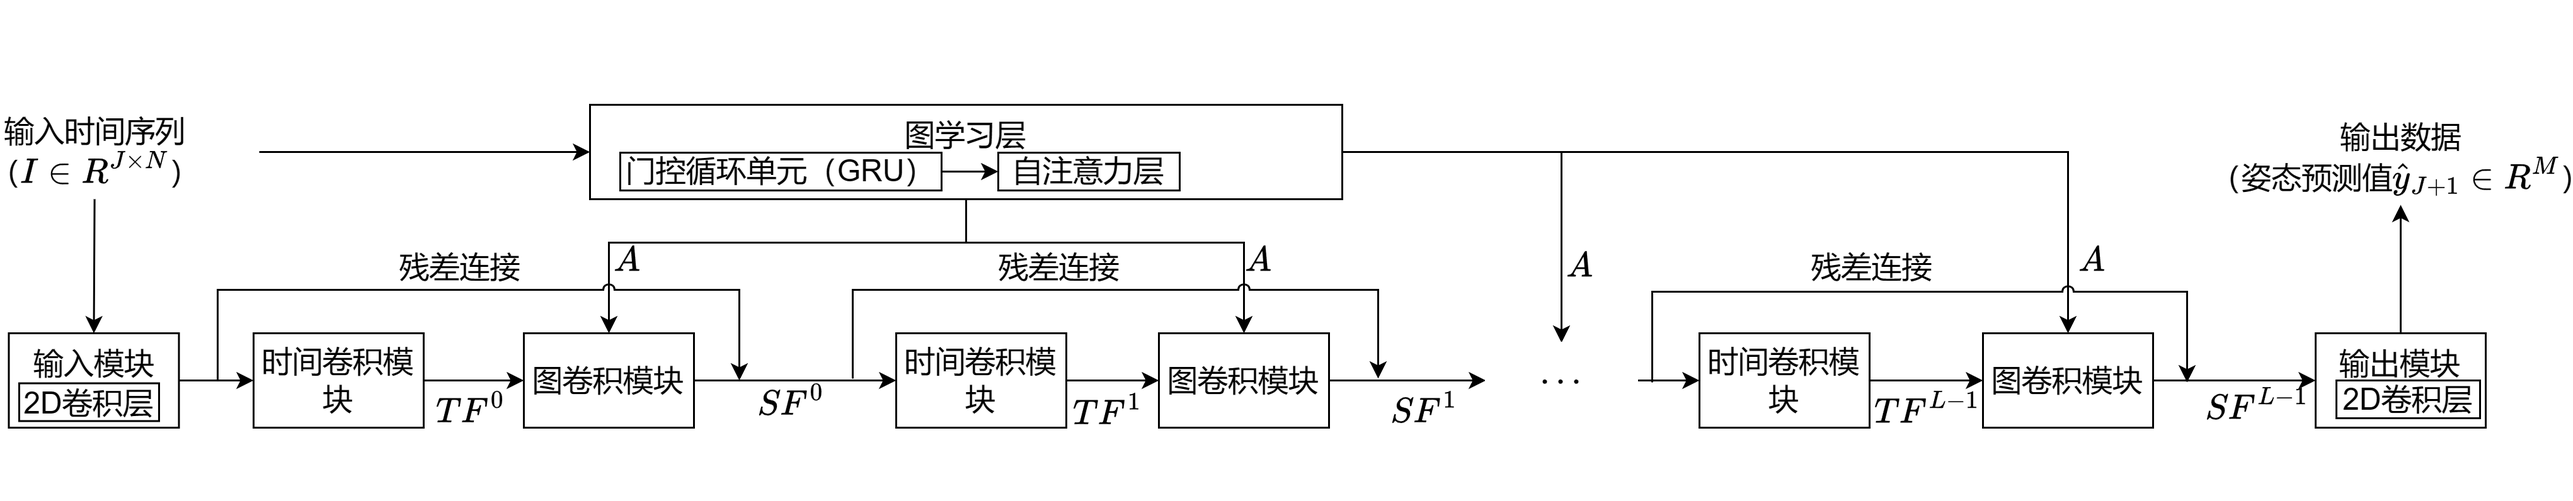
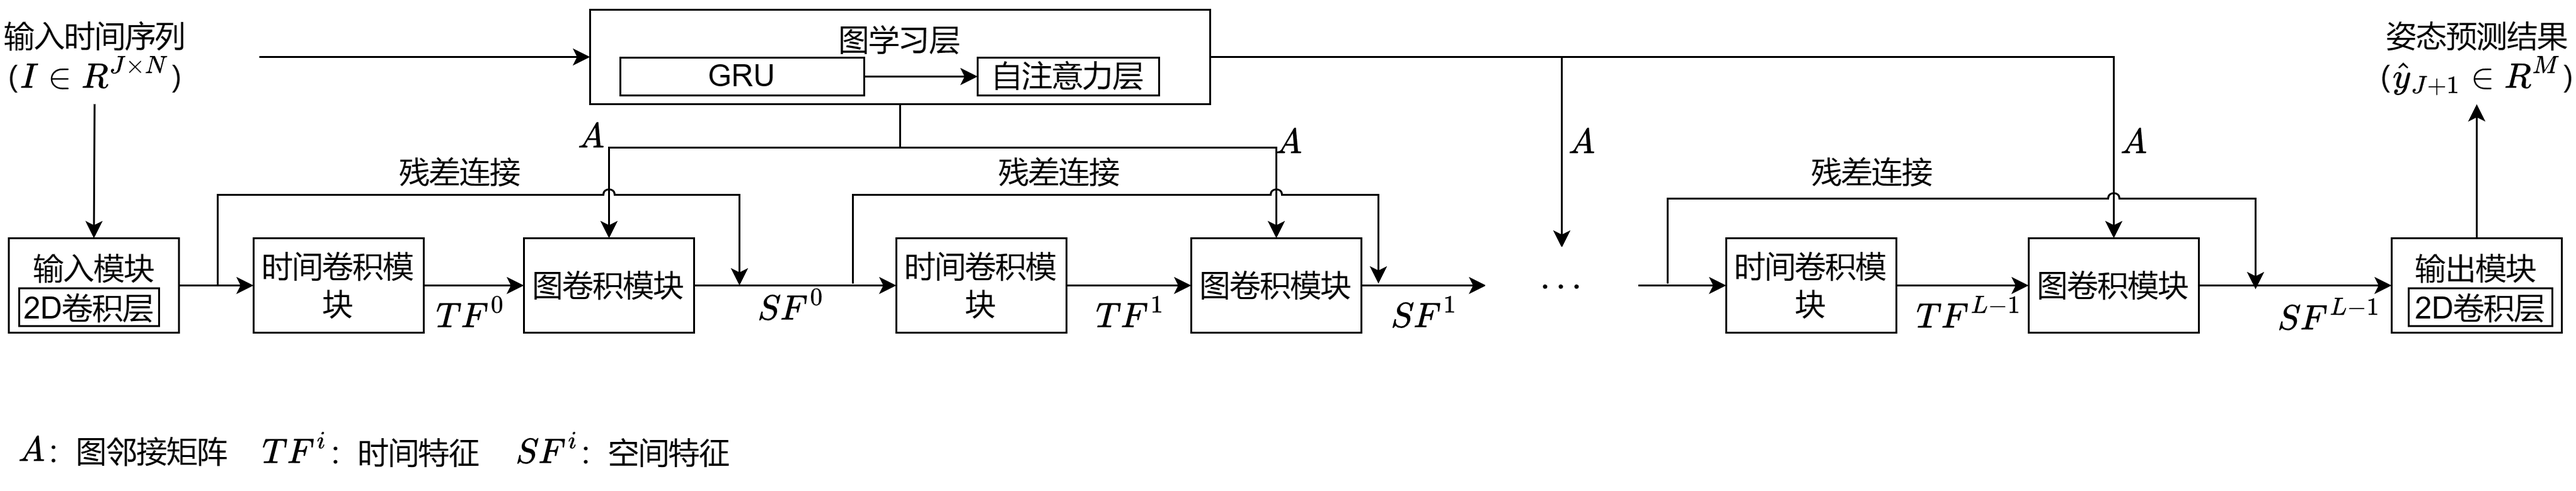
rewrite readme.md

diff --git a/README.md b/README.md
@@ -1,124 +1,128 @@
+
+
 # MiPM
 
 ## 背景
 
-针对桥梁沉井下沉的施工场景，通过传感器收集施工现场的GPS数据以及沉井底部结构应力的数据，然后通过GPS数据计算沉井的姿态指标：下沉量、横/纵向倾斜度、横/纵向顶口偏位、横/纵向底口偏位，共七个指标，利用姿态指标序列以及结构应力序列预测下一时刻的沉井姿态，即多元时序数据预测问题及其应用
+沉井作为基础结构，在桥梁建造中，被广泛应用。在沉井建造过程中，实时准确的下沉姿态预测，有助于降低事故风险，提高工程质量。然而，常用的预测模型，如统计模型、机器学习模型，无法处理时序数据中的非线性时空特性，如结构应力，不适用于沉井下沉姿态的预测。另外，现有的针对沉井下沉姿态预测进行的工作，无法同时对沉井多个姿态指标进行预测。因此，本文提出了多指标预测模型MiPM。对沉井的姿态指标：下沉量、横/纵向倾斜度、横/纵向顶口偏位、横/纵向底口偏位，共七个指标进行预测。在沉井下沉过程中，沉井姿态的变化导致底部结构应力的变化，本文使用结构应力作为辅助数据，提高模型的预测精度。
 
 ## 模型结构
 
-模型介绍：对沉井下沉姿态的预测本质上是多元时序数据预测问题，传统的统计模型以及机器学习模型都不适用于时序数据的预测。本文，基于卷积神经网络以及图神经网络建立深度学习模型，提取时序数据的时空关系，预测沉井的下沉姿态。
+基于卷积神经网络以及图神经网络建立深度学习模型，提取沉井下沉姿态数据以及结构应力之间的时空特征，预测沉井的下沉姿态。该模型主要分为图学习层、时间卷积模块、图卷积模块、输入输出模块。
 
 <center>    <img style="border-radius: 0.3125em;    box-shadow: 0 2px 4px 0 rgba(34,36,38,.12),0 2px 10px 0 rgba(34,36,38,.08);"     src="./pictures/model_architecture.png">    <br>    <div style="color:orange; border-bottom: 1px solid #d9d9d9;    display: inline-block;    color: #999;    padding: 2px;">模型的总体架构图</div> </center>
 
 
 
-
+图卷积神经网络需要图邻接矩阵，本文使用GRU以及自注意力机制动态建立沉井下沉姿态以及结构应力之间的图邻接矩阵，提高模型的预测精度
 
 <center>    <img style="border-radius: 0.3125em;    box-shadow: 0 2px 4px 0 rgba(34,36,38,.12),0 2px 10px 0 rgba(34,36,38,.08);"     src="./pictures/graph_learning.png">    <br>    <div style="color:orange; border-bottom: 1px solid #d9d9d9;    display: inline-block;    color: #999;    padding: 2px;">图学习层架构图</div> </center>
 
-
-
-![tcmodule](./pictures/graph_learning.png)
+沉井下沉过程中，沉井的姿态以及底部结构应力都是随时间变化，上一时刻的值影响下一时刻，本文使用1D扩展卷积层捕获多元时序数据的时间特征，学习沉井下沉姿态以及结构应力的时间关系
 
 <center>    <img style="border-radius: 0.3125em;    box-shadow: 0 2px 4px 0 rgba(34,36,38,.12),0 2px 10px 0 rgba(34,36,38,.08);"     src="./pictures/tcmodule.png">    <br>    <div style="color:orange; border-bottom: 1px solid #d9d9d9;    display: inline-block;    color: #999;    padding: 2px;">时间卷积模块架构图</div> </center>
+
+在沉井下沉过程中，沉井姿态的变化会导致沉井底部结构应力的变化，且沉井底部不同位置都布置了结构应力点位，不同点位之间也是相互影响的。本文使用图神经网络来提取多元时序数据之间的空间特征。
 
 <center>    <img style="border-radius: 0.3125em;    box-shadow: 0 2px 4px 0 rgba(34,36,38,.12),0 2px 10px 0 rgba(34,36,38,.08);"     src="./pictures/mix-pop.png">    <br>    <div style="color:orange; border-bottom: 1px solid #d9d9d9;    display: inline-block;    color: #999;    padding: 2px;">图卷积模块架构图</div> </center>
 
 # 实验结果
 
+本文各模型对沉井的七个姿态指标进行预测，并使用相关系数R2、均方根误差RMSE、平均绝对百分比误差MAPE，作为评价指标。各模型的预测结果如下表。
+
 <center>    <img style="border-radius: 0.3125em;    box-shadow: 0 2px 4px 0 rgba(34,36,38,.12),0 2px 10px 0 rgba(34,36,38,.08);"     src="./pictures/study_results.jpg">    <br>    <div style="color:orange; border-bottom: 1px solid #d9d9d9;    display: inline-block;    color: #999;    padding: 2px;">各模型的预测结果</div> </center>
 
 # 基线模型
 
-以下基线模型，本文根据原网络结构，基于本文的数据集，进行调参。其余的基线模型由本文实现
+针对以下基线模型，本文根据原网络结构记忆本文的数据集，进行调参，并给出参数设置。其余未出现在下面模型中的基线模型由本文实现
 
 ## DARNN
 
-@article{qin2017dual,
-  title={A dual-stage attention-based recurrent neural network for time series prediction},
-  author={Qin, Yao and Song, Dongjin and Chen, Haifeng and Cheng, Wei and Jiang, Guofei and Cottrell, Garrison},
-  journal={arXiv preprint arXiv:1704.02971},
-  year={2017}
-}
-https://github.com/sunfanyunn/DARNN
-参数设置: hidden_size:128, dropout: 0.1
+* @article{qin2017dual,
+    title={A dual-stage attention-based recurrent neural network for time series prediction},
+    author={Qin, Yao and Song, Dongjin and Chen, Haifeng and Cheng, Wei and Jiang, Guofei and Cottrell, Garrison},
+    journal={arXiv preprint arXiv:1704.02971},
+    year={2017}
+  }
+* https://github.com/sunfanyunn/DARNN
+* 参数设置: hidden_size:128, dropout: 0.1
 
 ## LSTNet
 
-@inproceedings{lai2018modeling,
-  title={Modeling long-and short-term temporal patterns with deep neural networks},
-  author={Lai, Guokun and Chang, Wei-Cheng and Yang, Yiming and Liu, Hanxiao},
-  booktitle={The 41st international ACM SIGIR conference on research \& development in information retrieval},
-  pages={95--104},
-  year={2018}
-}
-https://github.com/laiguokun/LSTNet
-参数设置: hidden_size: 64, d_model: 160, filter_size: 4, dropout: 0.30000000000000004, highway_window: 16
+* @inproceedings{lai2018modeling,
+    title={Modeling long-and short-term temporal patterns with deep neural networks},
+    author={Lai, Guokun and Chang, Wei-Cheng and Yang, Yiming and Liu, Hanxiao},
+    booktitle={The 41st international ACM SIGIR conference on research \& development in information retrieval},
+    pages={95--104},
+    year={2018}
+  }
+* https://github.com/laiguokun/LSTNet
+* 参数设置: hidden_size: 64, d_model: 160, filter_size: 4, dropout: 0.30000000000000004, highway_window: 16
 
 ## STGNN
 
- @inproceedings{wang2020traffic,
-  title={Traffic flow prediction via spatial temporal graph neural network},
-  author={Wang, Xiaoyang and Ma, Yao and Wang, Yiqi and Jin, Wei and Wang, Xin and Tang, Jiliang and Jia, Caiyan and Yu, Jian},
-  booktitle={Proceedings of the web conference 2020},
-  pages={1082--1092},
-  year={2020}
-}
-https://github.com/LMissher/STGNN
-参数设置: d_k:20, num_layers: 1
+* @inproceedings{wang2020traffic,
+    title={Traffic flow prediction via spatial temporal graph neural network},
+    author={Wang, Xiaoyang and Ma, Yao and Wang, Yiqi and Jin, Wei and Wang, Xin and Tang, Jiliang and Jia, Caiyan and Yu, Jian},
+    booktitle={Proceedings of the web conference 2020},
+    pages={1082--1092},
+    year={2020}
+  }
+* https://github.com/LMissher/STGNN
+* 参数设置: d_k:20, num_layers: 1
 
 ## MTGNN
 
-@inproceedings{wu2020connecting,
-  title={Connecting the dots: Multivariate time series forecasting with graph neural networks},
-  author={Wu, Zonghan and Pan, Shirui and Long, Guodong and Jiang, Jing and Chang, Xiaojun and Zhang, Chengqi},
-  booktitle={Proceedings of the 26th ACM SIGKDD international conference on knowledge discovery \& data mining},
-  pages={753--763},
-  year={2020}
-}
-https://github.com/nnzhan/MTGNN
-参数设置: layers: 3, propalpha: 0.2, subgraph_size: 2, out_channels:64, gcn_depth:1
+* @inproceedings{wu2020connecting,
+    title={Connecting the dots: Multivariate time series forecasting with graph neural networks},
+    author={Wu, Zonghan and Pan, Shirui and Long, Guodong and Jiang, Jing and Chang, Xiaojun and Zhang, Chengqi},
+    booktitle={Proceedings of the 26th ACM SIGKDD international conference on knowledge discovery \& data mining},
+    pages={753--763},
+    year={2020}
+  }
+* https://github.com/nnzhan/MTGNN
+* 参数设置: layers: 3, propalpha: 0.2, subgraph_size: 2, out_channels:64, gcn_depth:1
 
 ## Informer
 
-@inproceedings{zhou2021informer,
-  title={Informer: Beyond efficient transformer for long sequence time-series forecasting},
-  author={Zhou, Haoyi and Zhang, Shanghang and Peng, Jieqi and Zhang, Shuai and Li, Jianxin and Xiong, Hui and Zhang, Wancai},
-  booktitle={Proceedings of the AAAI conference on artificial intelligence},
-  volume={35},
-  number={12},
-  pages={11106--11115},
-  year={2021}
-}
-https://github.com/zhouhaoyi/Informer2020
-参数设置: factor: 4, d_k:40, dropout: 0.1
+* @inproceedings{zhou2021informer,
+    title={Informer: Beyond efficient transformer for long sequence time-series forecasting},
+    author={Zhou, Haoyi and Zhang, Shanghang and Peng, Jieqi and Zhang, Shuai and Li, Jianxin and Xiong, Hui and Zhang, Wancai},
+    booktitle={Proceedings of the AAAI conference on artificial intelligence},
+    volume={35},
+    number={12},
+    pages={11106--11115},
+    year={2021}
+  }
+* https://github.com/zhouhaoyi/Informer2020
+* 参数设置: factor: 4, d_k:40, dropout: 0.1
 
 ## FEDformer
 
-@inproceedings{zhou2022fedformer,
-  title={Fedformer: Frequency enhanced decomposed transformer for long-term series forecasting},
-  author={Zhou, Tian and Ma, Ziqing and Wen, Qingsong and Wang, Xue and Sun, Liang and Jin, Rong},
-  booktitle={International conference on machine learning},
-  pages={27268--27286},
-  year={2022},
-  organization={PMLR}
-}
-https://github.com/MAZiqing/FEDformer
-参数设置: d_k:40, dropout: 0.1
+* @inproceedings{zhou2022fedformer,
+    title={Fedformer: Frequency enhanced decomposed transformer for long-term series forecasting},
+    author={Zhou, Tian and Ma, Ziqing and Wen, Qingsong and Wang, Xue and Sun, Liang and Jin, Rong},
+    booktitle={International conference on machine learning},
+    pages={27268--27286},
+    year={2022},
+    organization={PMLR}
+  }
+* https://github.com/MAZiqing/FEDformer
+* 参数设置: d_k:40, dropout: 0.1
 
 ## MrCAN
 
-@article{zhang2023mrcan,
-  title={MrCAN: Multi-relations aware convolutional attention network for multivariate time series forecasting},
-  author={Zhang, Jing and Dai, Qun},
-  journal={Information Sciences},
-  volume={643},
-  pages={119277},
-  year={2023},
-  publisher={Elsevier}
-}
-https://github.com/JZhangNA/MrCAN
-参数设置: dropout:0.3, filter_size:4, d_k:20
+* @article{zhang2023mrcan,
+    title={MrCAN: Multi-relations aware convolutional attention network for multivariate time series forecasting},
+    author={Zhang, Jing and Dai, Qun},
+    journal={Information Sciences},
+    volume={643},
+    pages={119277},
+    year={2023},
+    publisher={Elsevier}
+  }
+* https://github.com/JZhangNA/MrCAN
+* 参数设置: dropout:0.3, filter_size:4, d_k:20
 
 
 
